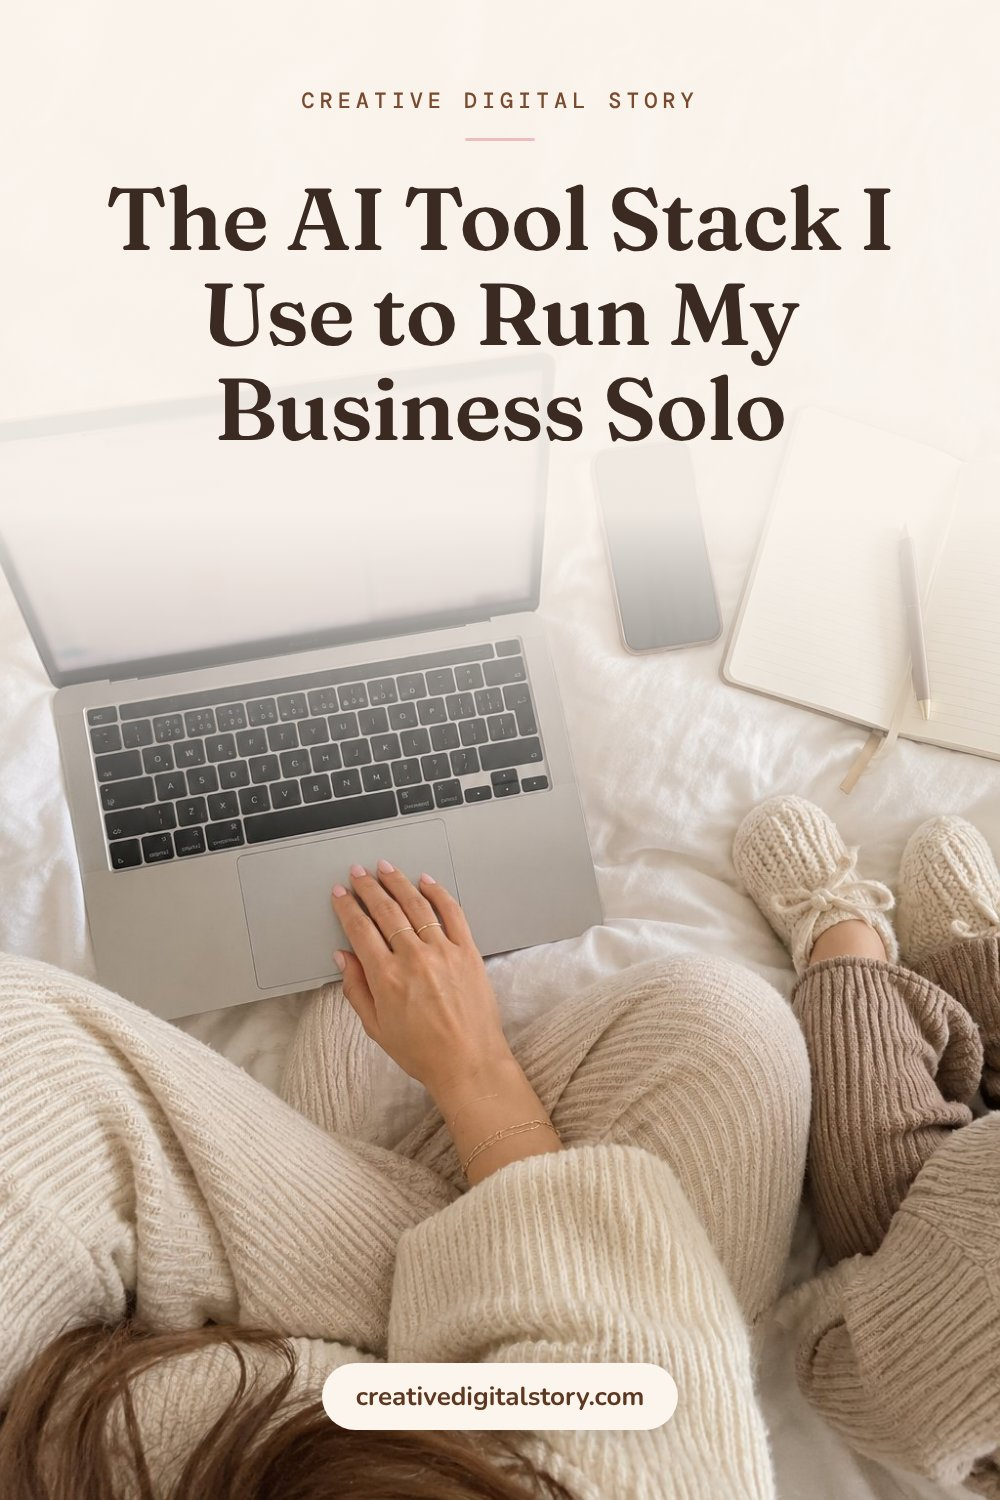
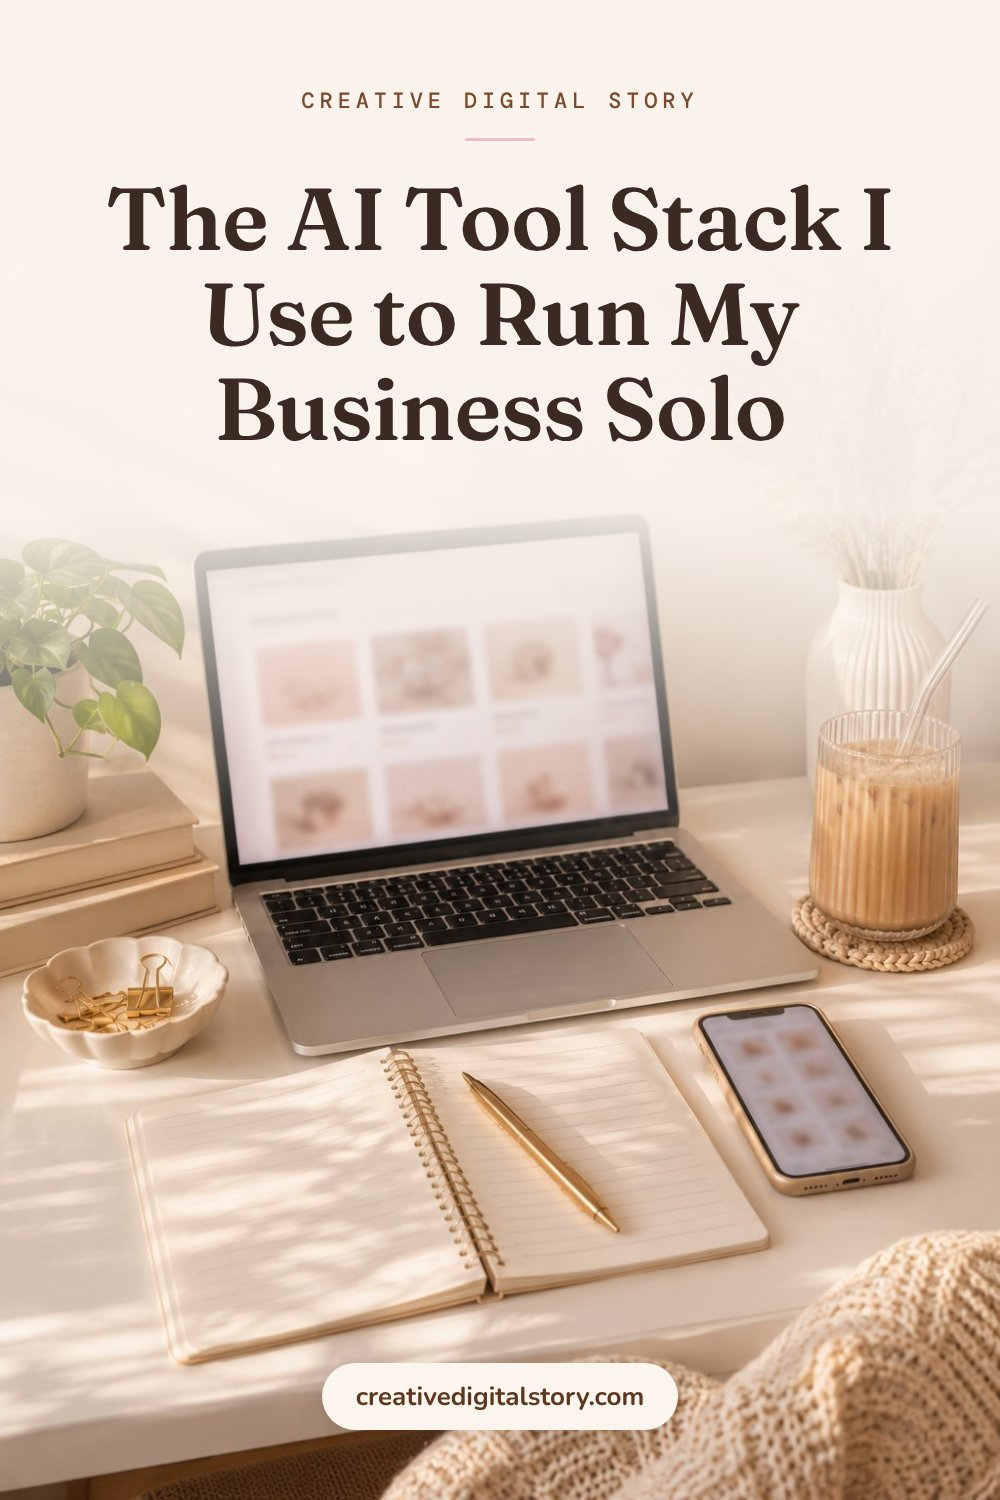
Swap 3 covers for styled still lifes so the blog grid mixes people and scenes
Claude-Session: https://claude.ai/code/session_01KZQHxqncj33MZrj3gMhhGg

diff --git a/posts/2026-10-25-etsy-or-own-storefront.md b/posts/2026-10-25-etsy-or-own-storefront.md
@@ -11,7 +11,7 @@ pin_title: "Etsy or Your Own Shop? Where to Sell Digital Products"
 pin_description: "Where should you sell your first digital product? An honest look at Etsy vs your own storefront: real fees on a $15 product, who brings the buyers, Etsy's AI rules and a 5-question checklist to decide."
 cover: "/images/etsy-or-own-storefront.jpg"
 cover_shape: tall
-cover_alt: "A woman wrapping kraft paper parcels with twine on a rug while her toddler touches one"
+cover_alt: "Kraft paper parcels tied with blush ribbon on a wooden table, with a blank gift tag and a tablet showing a blurred shop page"
 product:
   name: "Etsy Success Guide 2026 Edition"
   blurb: "If Etsy is where you're starting, my Etsy Success Guide walks you through setting up and growing an Etsy shop for digital products, from your first listings to your first sales."

diff --git a/posts/2026-10-10-ai-tool-stack.md b/posts/2026-10-10-ai-tool-stack.md
@@ -12,7 +12,7 @@ pin_title: "The AI Tool Stack I Use to Run My Business Solo"
 pin_description: "The 8 tools behind my automated blogs and AI-made digital products, what each one does, and the order to learn them in."
 cover: "/images/ai-tool-stack.jpg"
 cover_shape: tall
-cover_alt: "Looking down at a laptop, phone and notebook on a white bed, with a toddler's knit booties at the edge of the frame"
+cover_alt: "A cream desk with a laptop showing a blurred dashboard, a phone, an open notebook, an iced latte and dried pampas grass"
 product:
   name: "Make Money with an Automated Affiliate Blog"
   blurb: "Want to see this stack working together? My step-by-step course shows you how to build an automated affiliate blog with Claude, ChatGPT, Netlify and Pinterest, with a hands-on exercise in every chapter."

diff --git a/posts/2026-10-10-digital-products-with-ai.md b/posts/2026-10-10-digital-products-with-ai.md
@@ -12,7 +12,7 @@ pin_title: "How I Make Digital Products With AI (Step by Step)"
 pin_description: "From a blank chat to a sellable guide: the 7-step process I use to build interactive digital products with AI, no coding required."
 cover: "/images/digital-products-with-ai.jpg"
 cover_shape: tall
-cover_alt: "A woman with her toddler on her lap at a round white table, seen from behind, working on a laptop with a colorful tracker"
+cover_alt: "Printed planner and tracker pages fanned out on a linen table beside a tablet showing the same tracker and a mug of tea"
 product:
   name: "Interactive Digital Products Guide"
   blurb: "Ready to make your own? My Interactive Digital Products Guide walks you through creating clickable tools, trackers and guides with AI, the same way I make mine."
